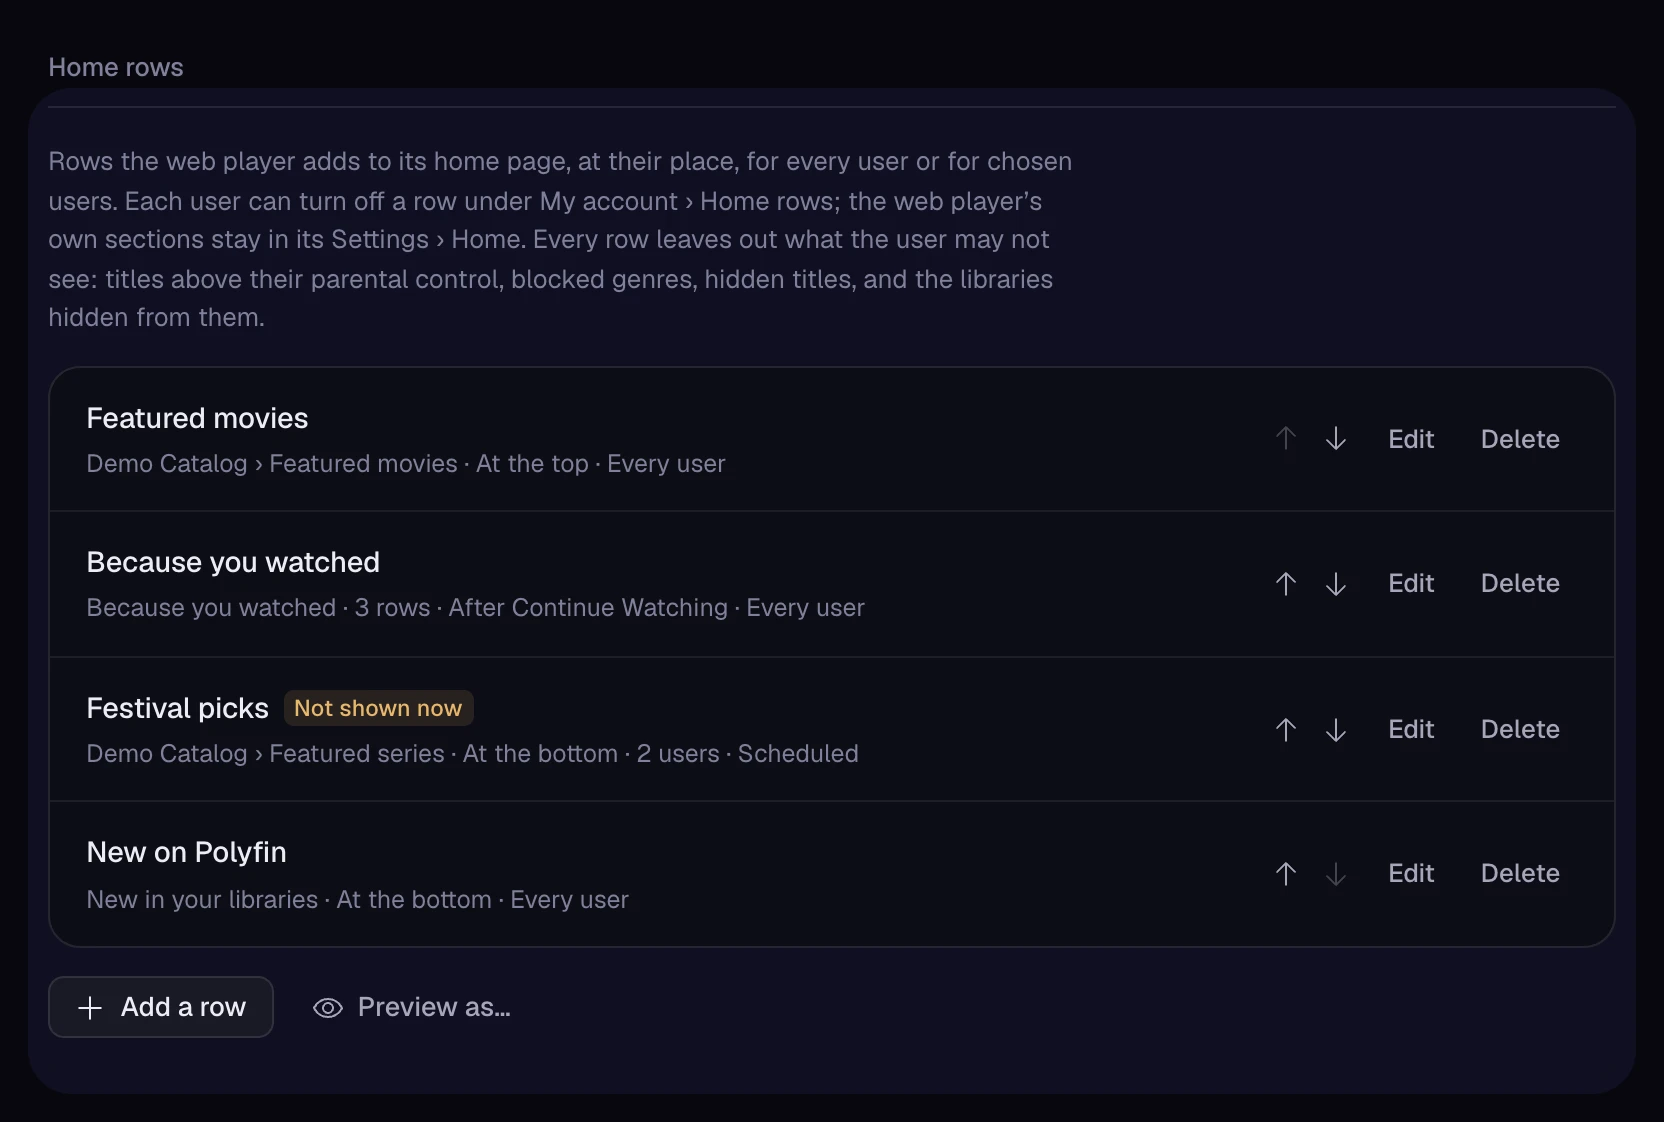
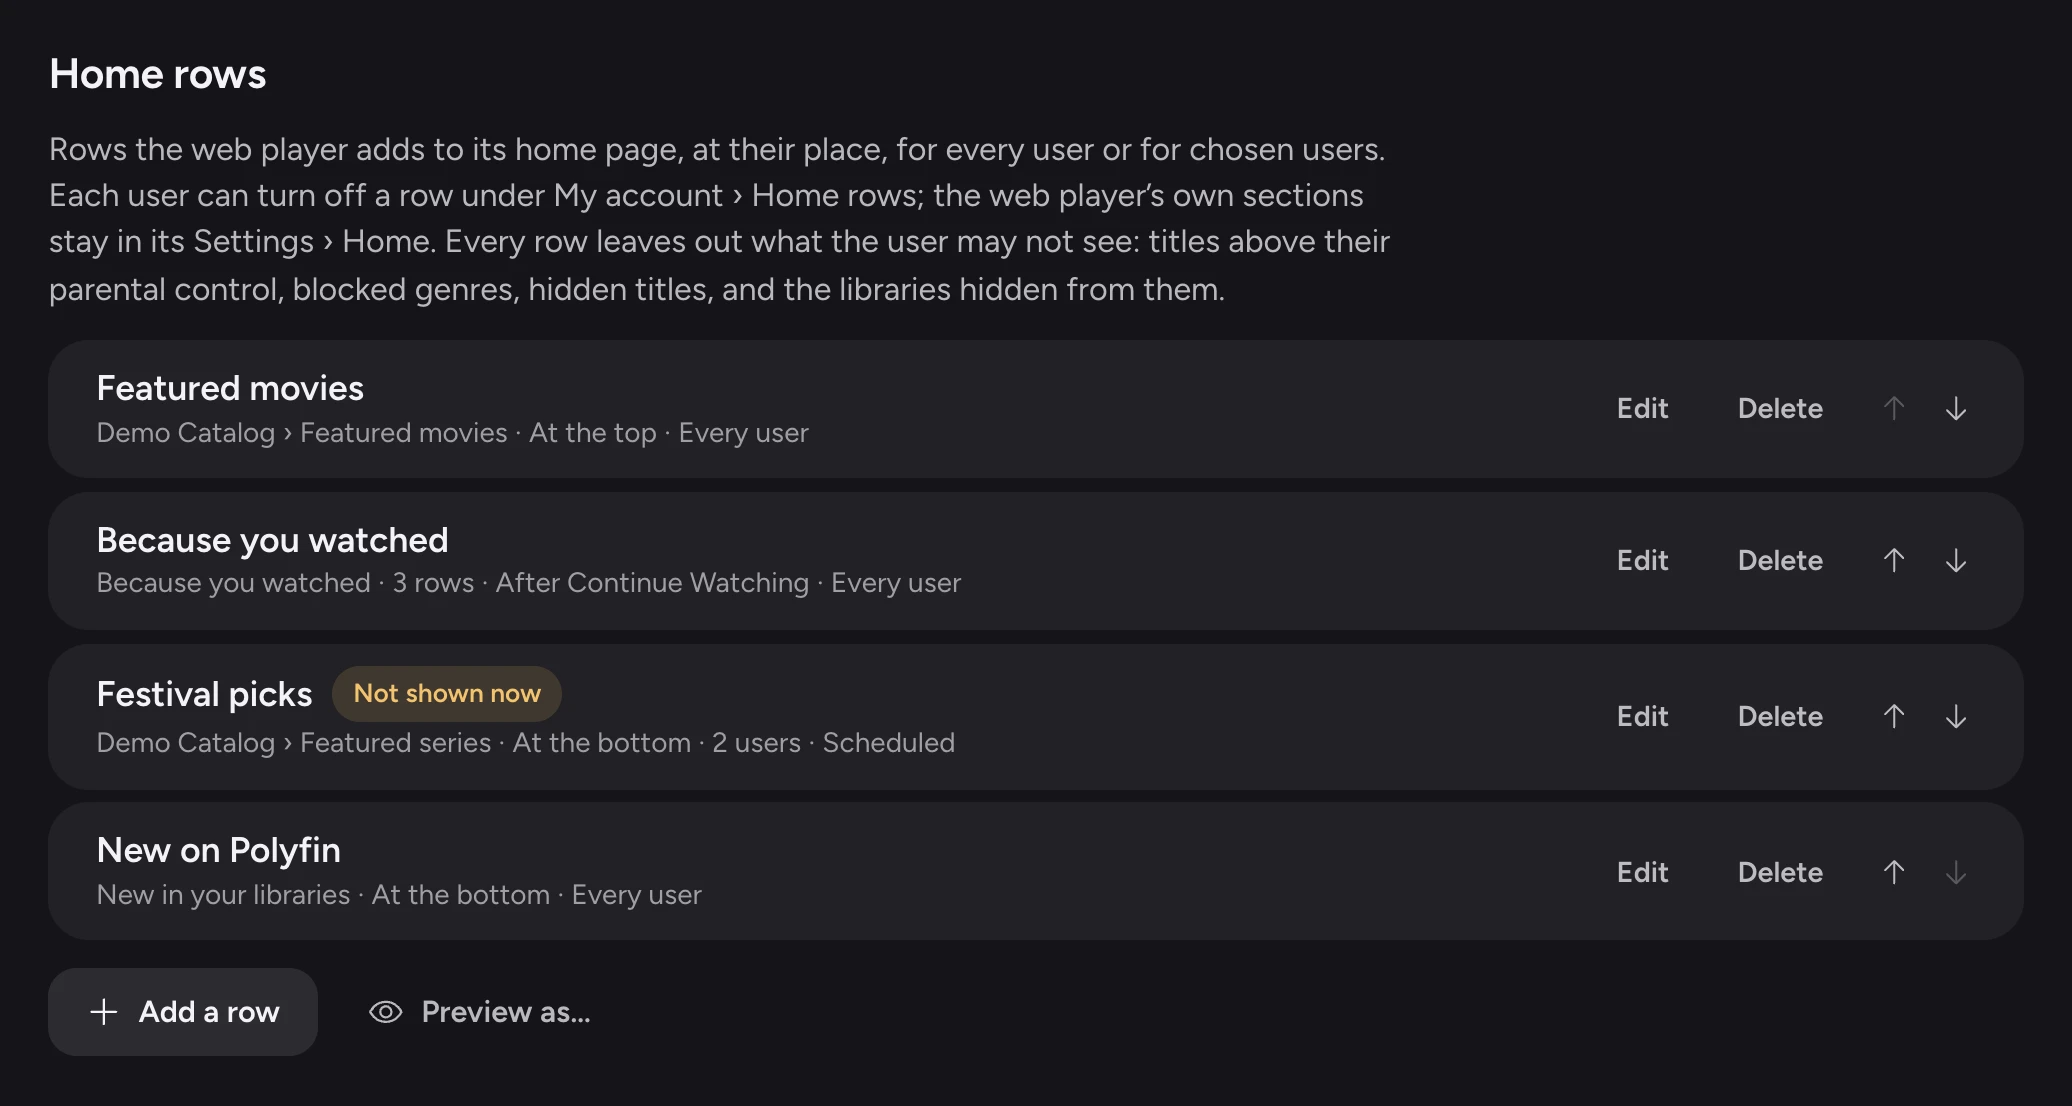
docs(screenshots): retake the admin app's shots in Salon
Leave no control lit under the mouse or the focus, keep the folder form
whole, open Home rows without the jump's light, and crop the IPTV
source's page without the hidden dock and screen reader help. Retake the
eight images.

Refs #941

diff --git a/docs/scripts/screenshots/README.md b/docs/scripts/screenshots/README.md
@@ -63,14 +63,14 @@ All are 1440 pixels wide at twice the pixel density, cropped to their subject. E
 | `get-started.webp`          | **Home**                  | The Get started card of a fresh server                         |
 | `add-a-source-addon.webp`   | **Content › Sources**     | **Add a source**, Stremio addon, with a manifest address typed |
 | `home-now-playing.webp`     | **Home**                  | Now playing with two playbacks, one with **Details** open      |
-| `top-bar-account-menu.webp` | Any page                  | The top bar with the account menu open, with numbered markers  |
+| `top-bar-account-menu.webp` | Any page                  | The top bar with the account panel open, with numbered markers |
 | `add-a-source-folder.webp`  | **Content › Sources**     | **Add a source**, Folder, with a name and a path typed         |
 | `user-page.webp`            | **Users**                 | A member's page, with its sections                             |
 | `home-rows-editor.webp`     | **Settings › Web player** | The Home rows list                                             |
-| `iptv-source.webp`          | **Content › Sources**     | An IPTV source's page, on Summary                              |
+| `iptv-source.webp`          | **Content › Sources**     | An IPTV source's page beside the list, on Summary              |
 
-The markers of `top-bar-account-menu.webp` are numbered in this order: 1, the sections; 2, the search; 3, the account menu. The page that shows the shot explains them.
+The markers of `top-bar-account-menu.webp` are numbered in this order: 1, the areas; 2, the search; 3, the account panel. The page that shows the shot explains them.
 
 ## Change or add a shot
 
-Each shot is a `shot('<name>', …)` step of `take.mjs`. It opens a page, brings it to the state wanted, and returns the area to keep. Use `clipAround()` around the elements of the subject, with a margin, and `addMarkers()` only where numbers help the text. To add data, extend `seed()` or `demo.mjs`.
+Each shot is a `shot('<name>', …)` step of `take.mjs`. It opens a page, brings it to the state wanted, and returns the area to keep. Use `clipAround()` around the elements of the subject, with a margin, and `addMarkers()` only where numbers help the text. The admin app lights the control under the mouse or the focus, so end a step with `restMouse()` or `blur()` unless the light is part of the subject. To add data, extend `seed()` or `demo.mjs`.
